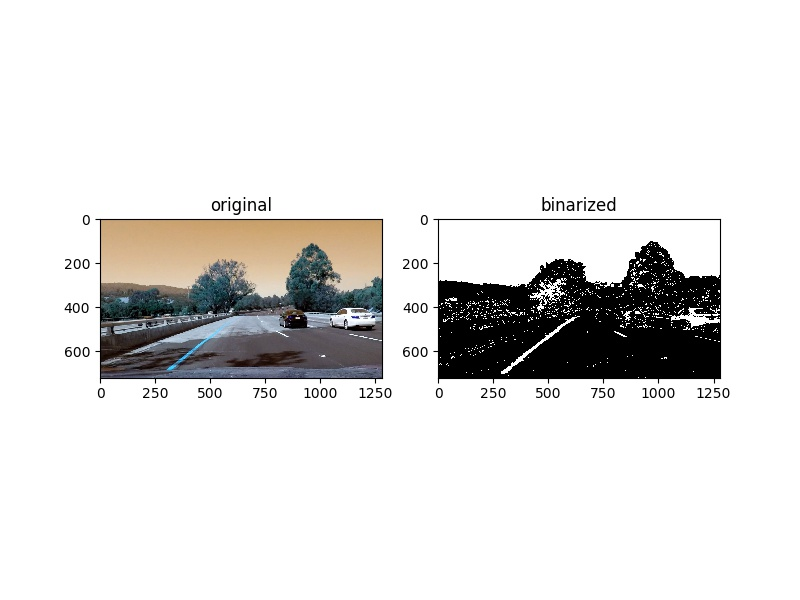
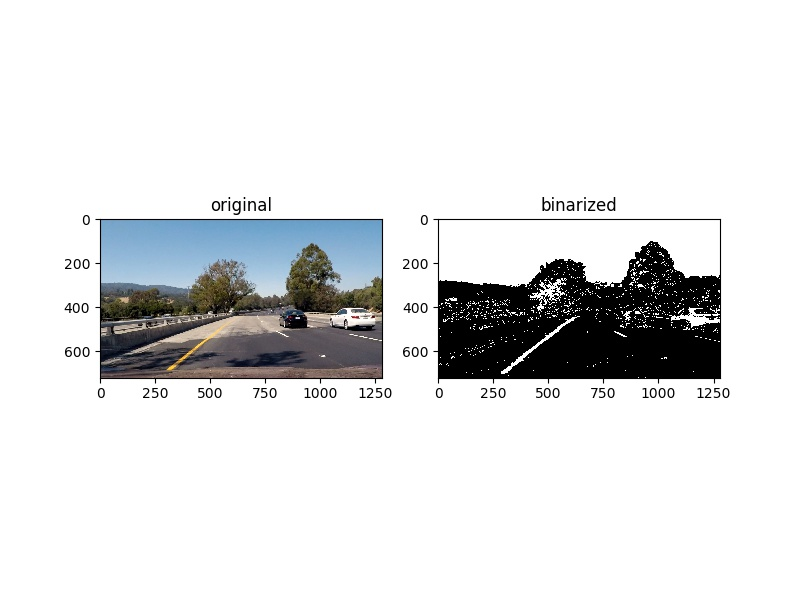
update image

Changed region(s): [[0.125, 0.36, 0.5, 0.63], [0.125, 0.6, 0.1562, 0.63]]

diff --git a/utils.py b/utils.py
@@ -306,9 +306,9 @@ if __name__ == "__main__":
     plt.imshow(undist, cmap="gray")
     plt.savefig("./output_images/undist.jpg", dpi=100)
 
-
+    undist = cv2.cvtColor(undist, cv2.COLOR_RGB2BGR)
     binarized = binarize_img(undist)
-    img = cv2.cvtColor(img, cv2.COLOR_BGR2RGB)
+    undist = cv2.cvtColor(undist, cv2.COLOR_BGR2RGB)
     plt.figure(figsize=(8, 6))
     plt.subplot(121)
     plt.title("original")
